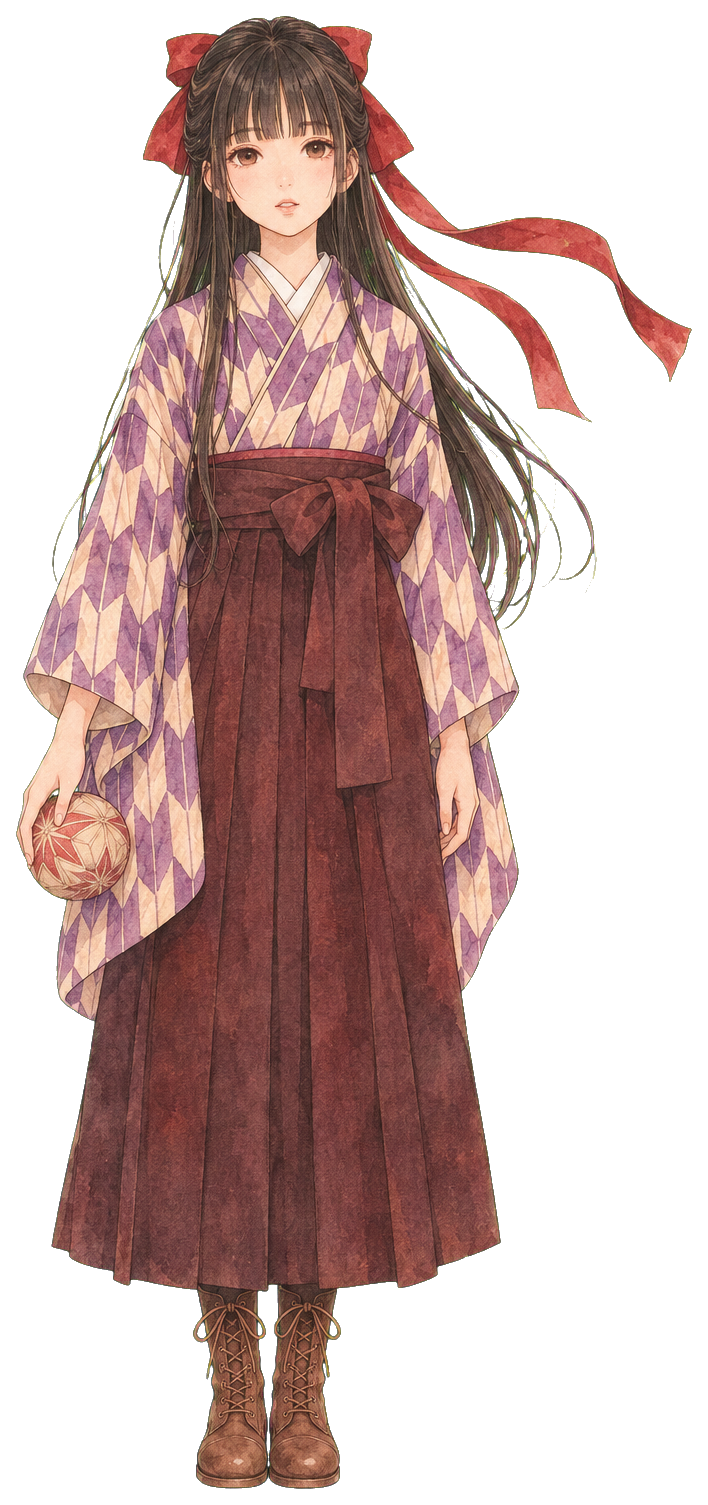
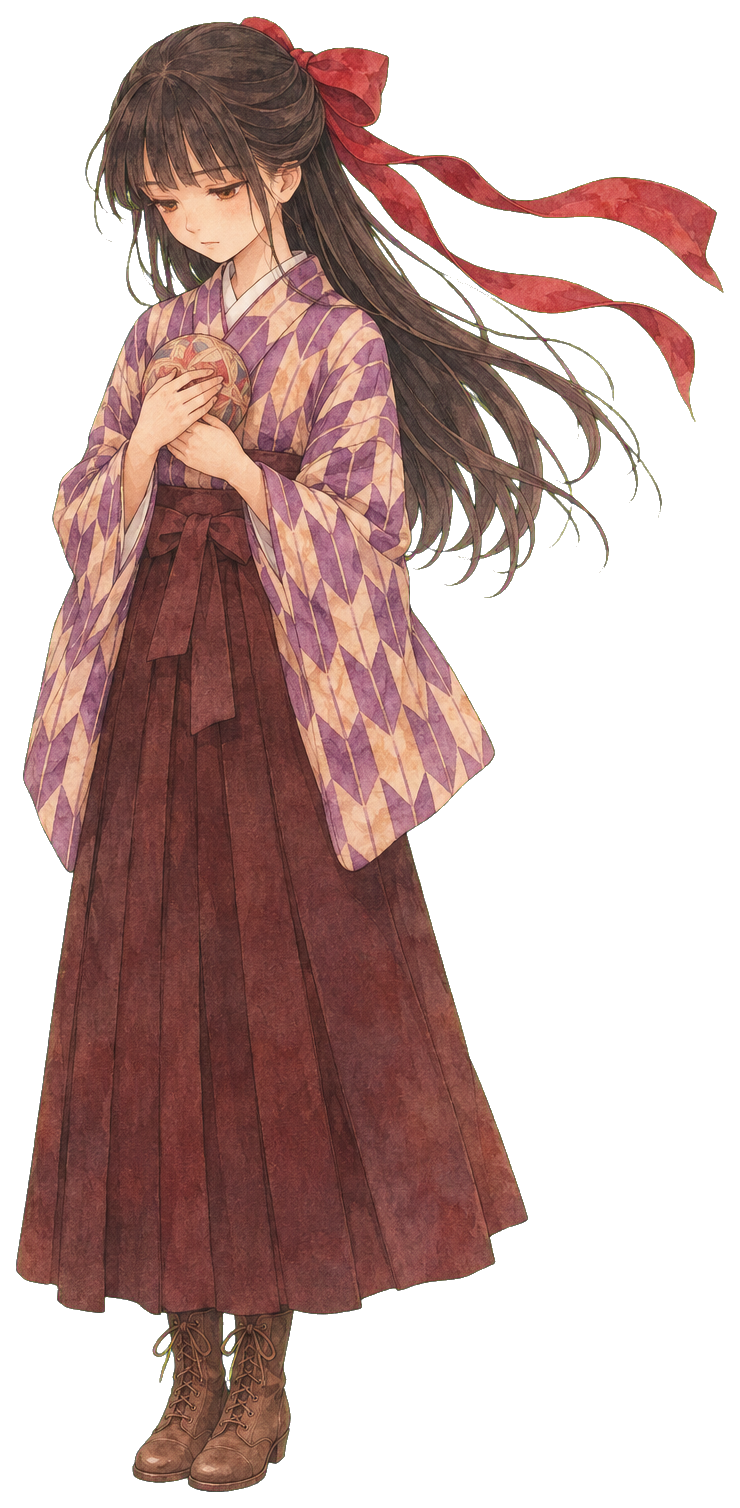
定稿改為小夜 a、千鶴 c；片尾只署名制作；前奏與尾奏人聲軌確認是樂器

diff --git a/tools/transcribe_lines.py b/tools/transcribe_lines.py
@@ -59,10 +59,7 @@ LINES = [
 SONG = dict(
     title="秋風恋歌",
     language="ja",
-    wordless_vocal_regions=[
-        dict(start=17.9, end=39.0, desc="vocal stem active under the band intro but no words in the Whisper pass: humming or lead-instrument bleed (unconfirmed)"),
-        dict(start=252.0, end=270.0, desc="vocal stem ~-19 dB but no words in the Whisper pass: wordless vocal or lead-instrument bleed (unconfirmed)"),
-    ],
+    wordless_vocal_regions=[],   # stem activity at 17.9-39.0 s and 252-270 s is lead-instrument bleed (user listened)
     instrumental_breaks=[],   # band drop-outs under a sung line: none found (interludes are in analysis/sections.json)
 )
 

diff --git a/docs/AUDIO_MAP.md b/docs/AUDIO_MAP.md
@@ -30,7 +30,7 @@ Sections: **file: analysis/sections.json**.
 | 11 | 03:12.01 | 03:28.49 | 5760–6255 | **Bridge** (bridge) | bridge | 82–88 | 7 | 0.48 | 76% | 千鶴 speaks: 泣かないで、顔上げて / この空で、あなたを、見ているわ | largest energy jump of the song at bar 86 (201.4 s, +3 dB) |
 | 12 | 03:28.49 | 03:47.31 | 6255–6819 | **Last chorus** (last-chorus) | chorus | 89–96 | 8 | 0.74 | 96% | 染まり逝く木々, 楓ひとひら, 紅時雨: the loudest stretch | pickups into bars 89/91/93/95 |
 | 13 | 03:47.31 | 04:06.14 | 6819–7384 | **Coda (title lines)** (last-chorus) | coda | 97–104 | 8 | 0.76 | 97% | 風は歌う、秋風恋歌 / 時雨はいつしか、風花に / 恋しぐれ | last sung words end ~245.8 s (bar 104) |
-| 14 | 04:06.14 | 04:40.12 | 7384–8404 | **Outro** (outro) | outro | 105–118 | 14 | 0.49 | 44% | instrumental to the end; fades out | vocal stem has wordless content or lead bleed 252-270 s (unconfirmed); music ends 280.12 s |
+| 14 | 04:06.14 | 04:40.12 | 7384–8404 | **Outro** (outro) | outro | 105–118 | 14 | 0.49 | 44% | instrumental to the end; fades out | vocal stem activity 252-270 s is lead-instrument bleed (no voice); music ends 280.12 s |
 | 15 | 04:40.12 | 04:48.34 | 8404–8650 | **Tail** (tail) | tail | 119–119 | 0 | 0.00 | 0% | reverb tail after the hard cut (no new notes) | last usable frame for the afterglow / logo fade |
 
 - `energy` = mean of the 0..1 `rms` envelope over the section (song range: quietest 0.17, loudest 0.76). Masters are compressed, so contrast often comes from the arrangement - use `low` (20-150 Hz) to feel bass in/out and breakdowns.

diff --git a/docs/CONCEPT.md b/docs/CONCEPT.md
@@ -85,7 +85,7 @@ Break 與時雨鏡頭才用淺色字。排除不透明字卡與花俏版型。
 8. **紅時雨** b95（3:42.61）：紅葉像驟雨一樣落下，キメ。
 9. **風花** 「時雨はいつしか、風花に」（3:51.35）：雨線在空中慢下來、變白，化成風花。
 10. **結尾** 4:06–4:40：風花覆蓋畫面直到全白，最後是夾在和紙裡的つがいの楓（押し葉）與片尾字卡
-    「原曲：秋風恋歌 / DeZI：R」「映像：（暱稱）／制作：Claude Opus 5.5」；音樂在 4:40.12 停，畫面停在那一頁。
+    「原曲：秋風恋歌 / DeZI：R」「制作：Claude Opus 5.5」（不放映像署名）；音樂在 4:40.12 停，畫面停在那一頁。
 
 ## 與示範作品《残光》的差異
 
@@ -105,7 +105,3 @@ Break 與時雨鏡頭才用淺色字。排除不透明字卡與花俏版型。
 
 只有「有 3D 長鏡頭」和「主歌用明朝體」兩項類似，其餘都依這首歌的歌詞與結構另外推導。
 
-## 待確認
-
-- 前奏 0:18–0:39 與尾奏 4:12–4:30 的人聲軌有聲音，但辨識不出歌詞：是無詞哼唱（可以拿來做「手毬歌的哼聲」）還是樂器？
-- 片尾「映像：（暱稱）」要用的暱稱。

diff --git a/docs/CHARACTER.md b/docs/CHARACTER.md
@@ -55,4 +55,4 @@ Delicate Japanese watercolour illustration with a Taisho-era romance mood: fine,
 - 不寫任何既有角色、作品或畫家的名字當參考；每個定稿提示都寫明 `ORIGINAL character, not any existing anime or manga character`。
 - 千鶴的辮子在**左肩**、綠楓髮飾在**右側**；小夜的蝴蝶結在**後腦**。每張圖都對一次，模型常把左右畫反。
 - 不在素材裡畫文字、印章或簽名。
-- 姿勢圖一律附定稿參考圖：`assets/char/REF_sayo.png`（＝`master_sayo_b`）與 `assets/char/REF_chizuru.png`（＝`master_chizuru_b`），檢查點 2 由使用者選定。
+- 姿勢圖一律附定稿參考圖：`assets/char/REF_sayo.png`（＝`master_sayo_a`）與 `assets/char/REF_chizuru.png`（＝`master_chizuru_c`），檢查點 2 由使用者選定。
